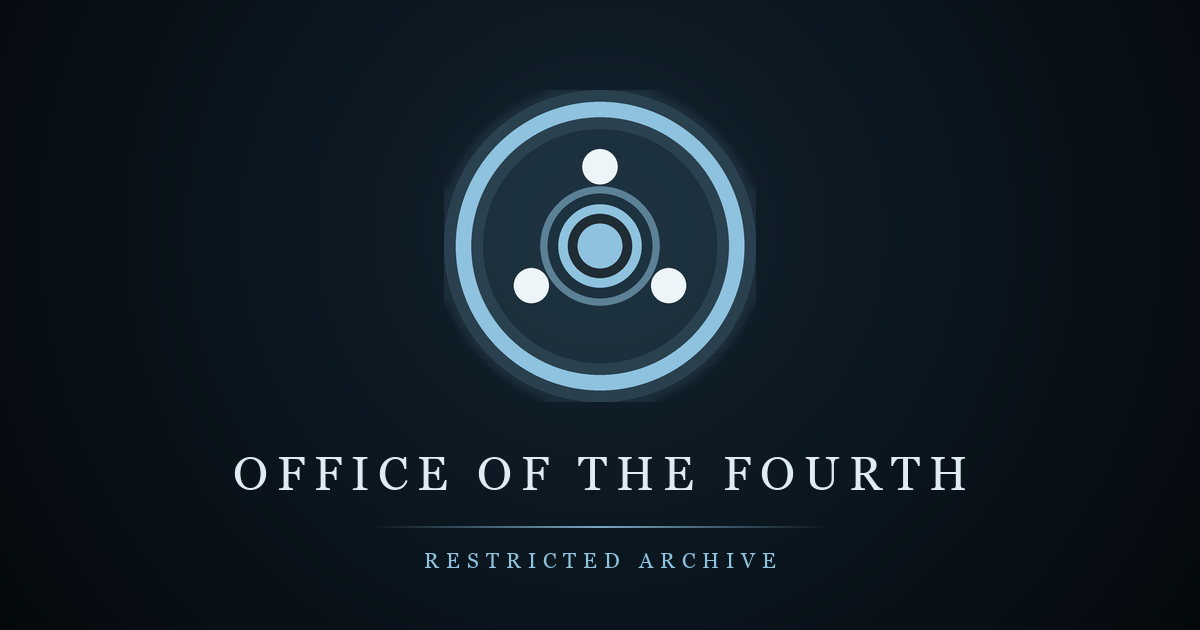
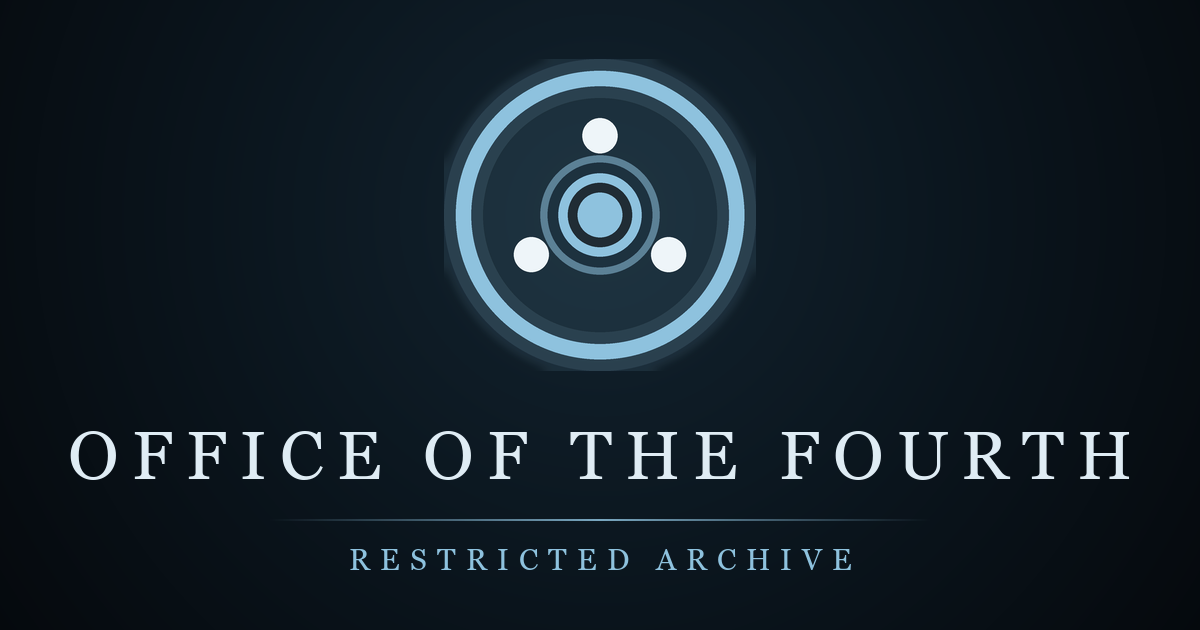
Share card now fills its frame: larger title, matching rule, balanced margins, and a versioned image URL so previewers pick up the new artwork

diff --git a/index.html b/index.html
@@ -12,14 +12,14 @@
 <meta property="og:type" content="website">
 <meta property="og:title" content="Office of the Fourth · Restricted Archive">
 <meta property="og:description" content="Restricted access terminal. Identity verification required.">
-<meta property="og:image" content="https://path3812.github.io/office-of-the-fourth/og.png">
+<meta property="og:image" content="https://path3812.github.io/office-of-the-fourth/og.png?v=2">
 <meta property="og:image:width" content="1200">
 <meta property="og:image:height" content="630">
 <meta property="og:image:alt" content="The Fourth Eye, the emblem of the Office of the Fourth">
 <meta name="twitter:card" content="summary_large_image">
 <meta name="twitter:title" content="Office of the Fourth · Restricted Archive">
 <meta name="twitter:description" content="Restricted access terminal. Identity verification required.">
-<meta name="twitter:image" content="https://path3812.github.io/office-of-the-fourth/og.png">
+<meta name="twitter:image" content="https://path3812.github.io/office-of-the-fourth/og.png?v=2">
 <script>document.documentElement.className += ' js';</script>
 <style>
 /* =========================================================================
